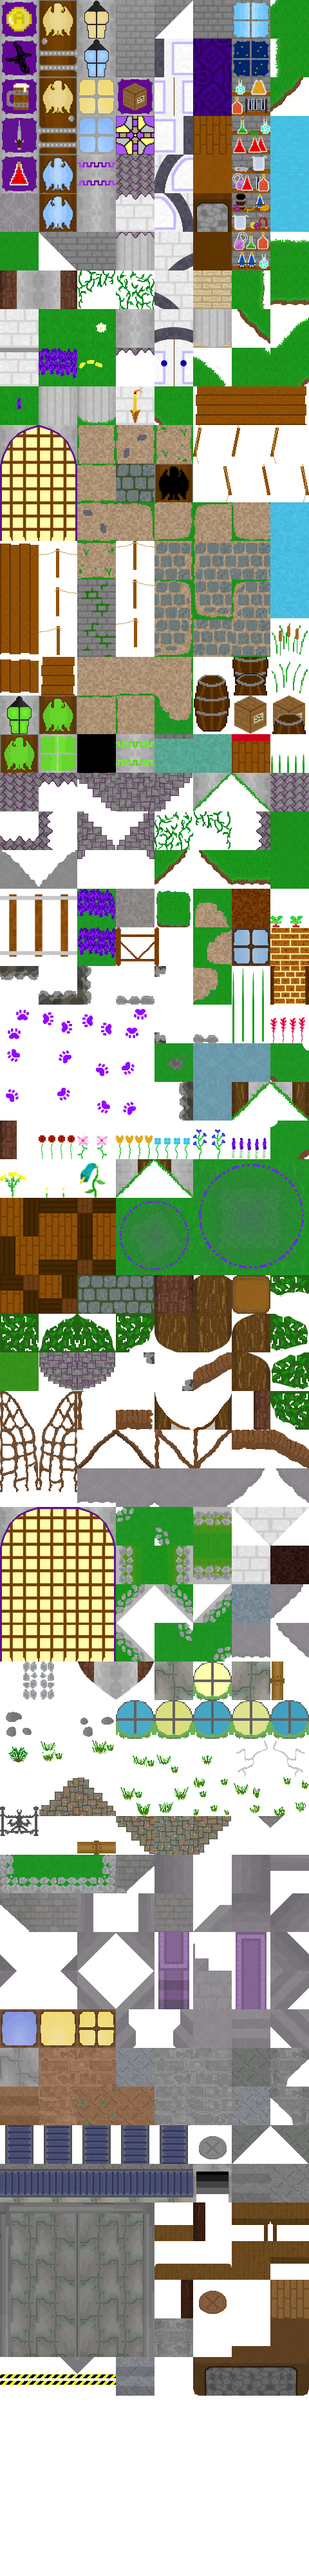
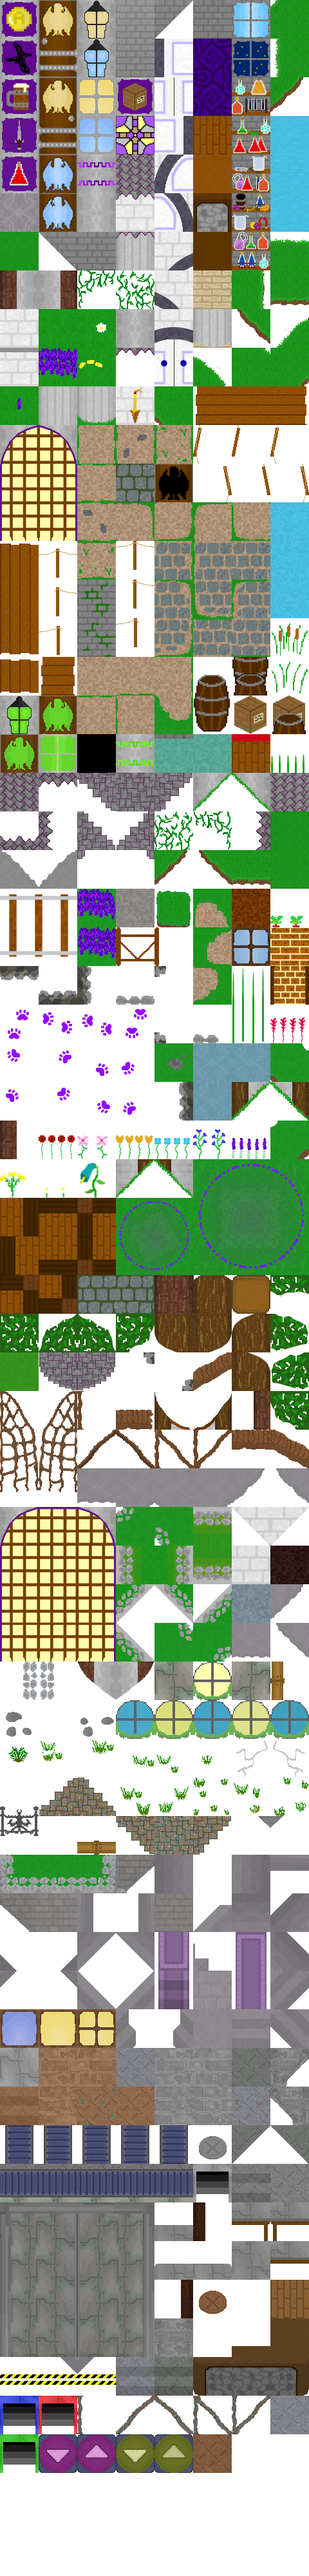
Tinkerer workshop updates!
Made some general changes + added some new objects for the tinkerer workshop.

Changed region(s): [[0.0, 0.8438, 1.0, 0.9688], [0.875, 0.9062, 1.0, 0.9688]]

diff --git a/gamedata/areadata.js b/gamedata/areadata.js
@@ -13958,6 +13958,7 @@ chloroville: {
 			rows: 32,
 			tsize: 60,
 			tilesPerRow: 8,
+			objectTiles: [489, 490, 491],
 			animateTiles: [
 
 				{
@@ -13975,33 +13976,38 @@ chloroville: {
 436,436,436,436,436,436,436,436,436,436,436,436,436,436,436,436,431,431,429,430,429,430,429,430,429,430,429,430,429,430,431,431,436,436,436,436,436,436,436,436,436,436,436,436,436,436,436,436,
 453,453,453,453,453,453,453,453,453,453,453,453,453,453,453,453,453,431,437,438,437,438,437,437,437,437,437,438,437,438,431,453,453,453,453,453,453,453,453,453,453,453,453,453,453,453,453,453,
 431,431,431,431,431,431,485,430,430,430,430,485,431,431,431,431,431,485,425,425,429,430,457,458,459,460,429,425,425,430,485,431,431,431,431,431,485,430,430,430,430,485,431,431,431,431,431,431,
-429,425,425,425,351,351,485,428,428,428,428,485,425,351,351,351,351,485,425,351,351,438,465,466,467,468,437,425,425,425,485,425,425,425,351,351,485,428,428,428,428,485,429,430,429,430,429,430,
-437,438,437,425,351,351,485,492,492,492,492,485,425,425,425,351,351,485,351,351,351,430,473,474,475,476,429,425,351,351,485,425,425,351,351,438,485,492,492,492,492,485,437,438,351,351,425,438,
-429,430,429,425,351,430,485,492,492,492,492,485,429,425,425,425,429,485,351,351,437,438,481,482,483,484,437,438,437,438,485,430,429,430,429,430,485,492,492,492,492,485,425,351,351,425,425,430,
-351,438,437,438,437,438,485,492,492,492,492,485,437,438,437,438,437,485,431,431,431,431,456,456,456,456,431,431,431,431,485,438,437,438,437,438,485,492,492,492,492,485,351,351,425,425,425,438,
-351,430,429,430,429,430,485,492,492,492,492,485,429,430,429,430,429,485,431,431,431,431,456,456,456,456,431,431,431,431,485,430,429,430,429,430,485,492,492,492,492,485,351,351,351,430,429,430,
-351,438,437,438,437,351,485,492,492,492,492,485,437,438,437,351,351,485,431,431,431,485,455,455,455,455,485,431,431,431,485,438,437,351,425,425,485,492,492,492,492,485,351,425,437,438,437,438,
-429,429,429,430,429,351,485,428,428,428,428,485,429,430,429,351,351,485,425,425,429,436,436,436,436,436,436,429,425,425,485,351,351,351,351,351,485,428,428,428,428,485,425,425,429,430,429,430,
-437,441,437,438,437,351,428,428,428,428,428,428,437,438,437,438,437,485,436,436,435,435,436,436,436,435,435,436,436,436,485,351,425,425,351,351,428,428,428,428,428,428,437,438,437,438,441,438,
+429,425,425,425,351,351,485,431,431,431,431,485,425,351,351,351,351,485,425,351,351,438,465,466,467,468,437,425,425,425,485,425,425,425,351,351,485,431,431,431,431,485,429,430,429,430,429,430,
+437,438,437,425,351,351,485,493,493,493,493,485,425,425,425,351,351,485,351,351,351,430,473,474,475,476,429,425,351,351,485,425,425,351,351,438,485,493,493,493,493,485,437,438,351,351,425,438,
+429,430,429,425,351,430,485,493,493,493,493,485,429,425,425,425,429,485,351,351,437,438,481,482,483,484,437,438,437,438,485,430,429,430,429,430,485,493,493,493,493,485,425,351,351,425,425,430,
+351,438,437,438,437,438,485,493,493,493,493,485,437,438,437,438,437,485,431,431,431,431,456,456,456,456,431,431,431,431,485,438,437,438,437,438,485,493,493,493,493,485,351,351,425,425,425,438,
+351,430,429,430,429,430,485,493,493,493,493,485,429,430,429,430,429,485,431,431,431,431,456,456,456,456,431,431,431,431,485,430,429,430,429,430,485,493,493,493,493,485,351,351,351,430,429,430,
+351,438,437,438,437,351,485,493,493,493,493,485,437,438,437,351,351,485,431,431,431,485,455,455,455,455,485,431,431,431,485,438,437,351,425,425,485,493,493,493,493,485,351,425,437,438,437,438,
+429,429,429,430,429,351,485,456,456,456,456,485,429,430,429,351,351,485,425,425,429,436,436,436,436,436,436,429,425,425,485,351,351,351,351,351,485,456,456,456,456,485,425,425,429,430,429,430,
+437,441,437,438,437,351,504,504,504,504,504,504,437,438,437,438,429,485,436,436,435,435,436,436,436,435,435,436,436,436,485,351,425,425,351,351,504,504,504,504,504,504,437,438,437,438,441,438,
 431,428,428,428,428,428,428,428,428,428,428,428,428,428,428,428,428,436,436,436,435,435,435,435,435,435,436,435,435,436,436,428,428,428,428,428,428,428,428,428,428,428,428,428,428,428,428,431,
 431,428,428,428,428,428,428,428,428,428,428,428,428,428,428,428,428,436,436,435,435,436,436,436,436,436,436,436,435,436,436,428,428,428,428,428,428,428,428,428,428,428,428,428,428,428,428,431,
 431,428,428,428,428,428,428,428,428,428,439,428,428,428,428,428,428,436,436,435,435,436,436,436,436,436,436,436,436,436,436,428,428,428,428,428,428,428,428,428,428,439,428,428,428,428,428,431,
 431,428,428,428,428,428,428,428,428,428,428,428,428,428,428,428,428,436,436,436,435,435,436,435,435,436,436,436,435,436,436,428,428,428,428,428,428,428,439,428,428,428,428,428,439,428,428,431,
 431,428,428,439,428,428,428,428,428,428,428,428,428,428,428,428,428,436,436,436,436,436,436,436,435,435,435,435,435,436,436,428,428,428,428,428,428,439,428,428,428,428,428,439,439,428,428,431,
 431,428,428,428,428,428,439,428,439,428,428,428,428,428,428,428,428,436,436,436,436,436,436,436,436,436,436,436,436,436,436,428,428,428,428,439,439,439,428,439,439,439,428,428,428,428,428,431,
-431,492,492,492,492,492,492,492,492,492,492,492,492,492,492,492,441,426,426,426,426,426,426,426,426,426,426,426,426,426,426,441,492,492,492,492,492,492,492,492,492,492,492,492,492,492,492,431,
-431,436,436,436,436,435,436,436,436,435,436,436,436,435,436,436,436,434,434,434,434,434,434,434,434,434,434,434,434,434,434,436,436,436,435,435,436,436,436,436,436,436,436,436,435,436,436,431,
-431,436,436,436,436,436,436,436,436,436,436,436,436,436,436,436,436,456,456,456,456,456,456,456,456,456,456,456,456,456,456,436,436,436,435,436,436,436,436,435,435,436,436,435,435,436,436,431,
-431,436,435,436,436,436,436,436,436,436,435,436,436,436,436,436,436,456,456,456,456,456,456,456,456,456,456,456,456,456,456,436,436,436,436,435,435,436,435,435,435,436,436,436,436,436,436,431,
-431,436,436,436,436,436,436,436,436,436,436,436,436,436,435,436,436,456,456,456,456,456,456,456,456,456,456,456,456,456,456,436,435,436,436,436,436,436,436,436,436,436,436,436,436,436,436,431,
-431,449,449,449,449,449,449,449,449,449,436,436,436,436,436,436,436,456,456,456,456,456,456,456,456,456,456,456,456,456,456,436,436,436,436,436,435,435,449,449,449,449,449,449,449,449,449,431,
-431,485,425,425,430,429,430,429,430,436,436,435,436,436,435,436,436,456,456,456,456,456,456,456,456,456,456,456,456,456,456,436,436,436,435,436,436,436,436,429,425,425,351,429,430,429,485,431,
-455,485,425,425,351,437,438,437,351,436,436,436,436,436,436,436,436,456,456,456,456,456,456,456,456,456,456,456,456,456,456,436,436,436,436,435,436,436,436,437,438,425,425,351,438,437,485,455,
-436,485,430,351,430,429,430,351,351,449,449,449,449,449,449,449,449,456,456,456,456,456,456,456,456,456,456,456,456,456,456,449,449,449,449,449,449,449,449,429,430,351,425,351,430,429,485,436,
+431,492,492,492,492,492,492,492,492,441,492,492,492,492,492,492,441,426,426,426,426,426,426,426,426,426,426,426,426,426,426,441,492,492,492,492,492,492,492,492,492,492,492,492,492,492,492,431,
+431,436,436,436,436,435,436,436,436,510,455,455,455,455,455,455,510,434,434,434,434,434,434,434,434,434,434,434,434,434,434,436,436,436,435,435,436,436,436,436,436,436,436,436,435,436,436,431,
+431,436,436,436,436,436,436,436,436,510,493,493,493,493,493,493,510,456,456,456,456,456,456,456,456,456,456,456,456,456,456,436,436,436,435,436,436,436,436,435,435,436,436,435,435,436,436,431,
+431,436,435,436,436,436,436,436,436,510,431,431,431,431,431,431,510,456,456,456,456,456,456,456,456,456,456,456,456,456,456,436,436,436,436,435,435,436,435,435,435,436,436,436,436,436,436,431,
+431,436,436,436,436,436,436,436,436,510,431,431,431,431,431,431,510,456,456,456,456,456,456,456,456,456,456,456,456,456,456,436,435,436,436,436,436,436,436,436,436,436,436,436,436,436,436,431,
+431,449,449,449,449,449,449,449,449,431,431,471,431,431,471,431,510,456,456,456,456,456,456,456,456,456,456,456,456,456,456,436,436,436,436,436,435,435,449,449,449,449,449,449,449,449,449,431,
+431,485,425,425,430,429,430,429,430,510,431,431,431,431,431,431,510,456,456,456,456,456,456,456,456,456,456,456,456,456,456,436,436,436,435,436,436,436,436,429,425,425,351,429,430,429,485,431,
+493,485,425,425,351,437,438,437,351,510,431,431,431,431,431,431,510,456,456,456,456,456,456,456,456,456,456,456,456,456,456,436,436,436,436,435,436,436,436,437,438,425,425,351,438,437,485,493,
+436,485,430,351,430,429,430,351,351,449,510,510,510,510,510,510,431,456,456,456,456,456,456,456,456,456,456,456,456,456,456,449,449,449,449,449,449,449,449,429,430,351,425,351,430,429,485,436,
 436,436,438,437,438,437,425,351,351,485,425,351,351,429,430,429,430,456,456,456,456,456,456,456,456,456,456,456,456,456,456,429,425,351,351,429,430,429,485,437,438,437,438,437,438,437,436,436,
-436,436,436,436,436,436,436,436,436,485,425,425,351,437,438,437,438,456,456,456,456,456,456,456,456,456,456,456,456,456,456,437,425,425,351,437,438,437,485,436,436,436,436,436,436,436,436,436,
+436,436,436,436,436,436,436,436,436,485,425,425,351,437,438,437,449,449,449,449,449,449,449,449,449,449,449,449,449,449,449,449,425,425,351,437,438,437,485,436,436,436,436,436,436,436,436,436,
 436,436,436,436,436,436,436,436,436,485,351,351,351,429,430,429,430,429,430,351,425,425,430,429,430,429,430,351,425,351,430,429,430,351,351,429,430,429,485,436,436,436,436,436,436,436,436,436,
 436,436,436,436,436,436,436,436,436,436,438,437,438,437,438,437,438,437,351,425,425,425,425,437,438,437,351,425,425,425,351,437,438,437,438,437,438,437,436,436,436,436,436,436,436,436,436,436
+
+
+
+
+
 ],
 
 	[0,0,0,0,0,0,0,0,0,0,0,0,0,0,0,0,442,446,0,0,0,0,0,0,0,0,0,0,0,0,446,445,0,0,0,0,0,0,0,0,0,0,0,0,0,0,0,0,
@@ -14017,25 +14023,32 @@ chloroville: {
 0,352,0,352,0,0,0,0,0,0,0,0,352,0,0,379,352,0,0,0,367,447,0,0,0,0,448,367,367,0,0,0,352,0,0,352,0,0,0,0,0,0,0,379,379,379,379,379,
 0,352,0,352,0,0,489,489,489,489,489,489,352,0,0,352,0,0,0,0,0,432,0,0,0,0,440,0,0,0,0,0,352,0,0,352,489,489,489,489,489,489,0,352,0,0,0,0,
 0,454,0,352,0,0,432,0,0,0,0,440,352,0,0,352,0,0,0,0,0,0,0,0,367,367,0,0,0,0,0,0,352,0,0,352,432,0,0,0,0,440,0,352,0,0,454,0,
-0,441,0,0,0,446,0,0,0,0,0,0,0,478,0,0,410,432,0,478,367,0,367,0,0,367,0,367,446,0,440,409,0,0,478,0,0,368,0,0,0,0,446,0,0,0,441,0,
+0,441,0,0,0,446,0,0,0,0,0,0,0,478,0,0,0,432,0,478,367,0,367,0,0,367,0,367,446,0,440,409,0,0,478,0,0,368,0,0,0,0,446,0,0,0,441,0,
 0,441,0,367,0,0,0,0,367,0,0,0,0,0,0,0,0,395,367,0,0,0,0,0,0,0,367,0,367,0,396,0,0,0,0,0,0,0,0,0,0,0,367,0,0,0,441,0,
 0,441,0,0,0,0,0,0,0,0,0,0,0,0,0,0,0,395,0,0,0,0,0,0,0,0,0,0,0,0,396,0,0,367,368,0,0,0,0,0,0,0,0,0,0,0,441,0,
-0,441,0,0,0,368,0,0,0,0,0,0,0,0,0,0,0,395,0,0,367,0,0,0,0,0,0,367,367,0,396,0,0,0,0,0,0,367,0,0,0,368,0,0,0,0,441,0,
+0,441,0,0,0,368,0,0,0,0,0,0,0,0,0,0,0,395,0,0,367,0,0,0,0,0,0,367,367,0,396,0,0,0,0,0,0,367,0,0,0,0,0,0,0,0,441,0,
 0,441,0,0,0,0,0,0,0,0,0,0,0,368,367,0,0,395,0,446,0,0,0,367,0,0,0,0,478,0,396,0,0,0,0,0,0,0,0,0,0,0,0,0,0,0,441,0,
 0,441,478,0,0,0,0,0,0,0,0,0,0,0,0,446,0,491,489,489,489,489,489,489,489,489,489,489,489,489,490,0,446,0,0,0,0,0,0,0,0,0,0,0,0,478,441,0,
-0,441,0,368,0,0,0,0,0,0,0,0,0,0,0,0,454,0,0,0,352,0,352,0,379,379,379,352,0,352,0,454,0,0,0,0,0,0,368,0,0,0,0,0,0,0,441,0,
-0,441,446,0,0,367,0,0,0,0,0,0,0,0,0,478,441,379,379,379,352,0,352,0,352,0,0,0,0,352,0,441,478,0,0,0,0,0,0,0,0,0,367,0,0,446,441,0,
-0,441,0,0,0,0,0,368,0,0,0,0,0,0,0,0,441,395,0,0,0,0,0,0,0,0,0,0,0,0,396,441,0,0,0,0,0,0,0,0,0,0,0,0,368,0,441,0,
-0,441,367,0,0,0,0,0,367,0,0,0,367,0,0,0,441,395,478,0,0,0,0,0,0,0,0,0,0,446,396,441,0,0,0,368,0,0,0,0,0,0,0,0,0,0,441,0,
-0,441,0,0,478,0,0,0,0,0,0,0,0,0,0,446,441,395,0,0,0,0,0,0,0,0,0,0,0,0,396,441,446,0,367,0,0,0,0,0,0,0,0,478,0,0,441,0,
-0,441,449,449,449,449,449,449,449,441,0,0,0,0,0,0,441,395,0,0,0,0,0,0,0,0,0,0,0,0,396,441,0,0,0,0,0,0,441,449,449,449,449,449,449,449,441,0,
-0,379,352,379,379,379,379,352,379,441,0,0,0,0,367,0,441,395,0,0,0,0,0,0,0,0,0,0,0,0,396,441,0,0,0,0,0,0,441,352,0,0,379,352,0,379,352,0,
-0,379,379,352,0,0,0,0,352,441,0,0,478,0,0,0,441,395,0,0,0,0,0,0,0,0,0,0,0,0,396,441,0,0,0,478,0,0,441,352,379,379,352,352,0,352,0,0,
-0,0,0,0,0,0,0,0,0,441,449,449,449,449,449,449,441,395,0,0,0,0,0,0,0,0,0,0,0,0,396,441,449,449,449,449,449,449,441,0,0,0,0,0,0,0,0,0,
-0,440,0,0,0,0,0,0,0,0,0,0,0,379,379,379,379,409,446,0,0,0,0,0,0,0,0,0,0,478,410,352,379,379,379,352,379,352,0,0,0,367,0,0,0,0,432,0,
-0,367,0,0,0,0,0,367,0,0,379,379,379,352,0,0,489,489,489,489,489,489,489,489,489,489,489,489,489,489,489,489,352,0,0,352,352,352,0,0,0,0,0,0,0,0,0,0,
-0,0,0,0,0,0,0,0,0,0,0,0,0,0,0,0,0,0,0,0,0,0,0,0,0,0,0,0,0,0,0,0,0,0,0,0,0,0,0,0,0,0,0,0,0,0,0,0,
-0,0,0,0,0,0,0,0,0,440,367,0,0,0,0,0,0,0,0,0,0,0,0,0,0,0,0,0,0,0,0,0,0,0,0,0,367,0,432,0,0,0,0,0,0,0,367,0
+0,441,0,368,0,0,0,0,0,497,0,0,0,0,0,0,498,0,0,0,352,0,352,0,379,379,379,352,0,352,0,505,0,0,0,0,0,0,368,0,0,0,0,0,0,0,441,0,
+0,441,446,0,469,461,470,0,0,441,0,0,0,0,0,0,442,379,379,379,352,0,352,0,352,0,0,0,0,352,0,441,446,0,0,0,0,0,0,0,0,469,461,470,0,446,441,0,
+0,441,0,0,471,471,471,0,0,441,0,0,0,0,0,0,442,395,0,0,0,0,0,0,0,0,0,0,0,0,396,441,0,0,0,0,0,0,0,0,0,471,471,471,368,0,441,0,
+0,441,367,0,464,472,463,0,367,441,0,0,367,0,0,446,442,395,478,0,0,0,0,0,0,0,0,0,0,446,396,441,0,469,461,461,470,0,0,0,0,464,472,463,0,0,441,0,
+0,441,0,0,478,0,0,0,0,441,0,469,0,0,470,0,442,395,0,0,0,0,0,0,0,0,0,0,0,0,396,441,0,471,471,471,471,0,0,0,0,0,0,478,0,0,441,0,
+0,441,449,449,449,449,449,449,449,506,0,469,461,461,470,0,442,395,0,0,0,0,0,0,0,0,0,0,0,0,396,441,0,464,472,472,463,0,441,449,449,449,449,449,449,449,441,0,
+0,379,352,379,379,379,379,352,379,441,0,464,472,472,463,0,442,395,0,0,0,0,0,0,0,0,0,0,0,0,396,441,0,0,0,0,0,0,441,352,0,0,379,352,0,379,352,0,
+0,379,352,352,0,0,0,352,352,441,446,0,0,0,0,0,441,395,0,0,0,0,0,0,0,0,0,0,0,0,396,441,0,0,0,478,0,0,441,352,379,379,352,352,0,352,0,0,
+0,0,352,352,0,0,0,352,352,441,449,449,449,449,449,449,509,395,0,0,0,0,0,0,0,0,0,0,0,0,396,441,449,449,449,449,449,449,441,352,352,0,0,352,0,352,0,0,
+0,440,352,352,0,0,0,352,352,0,0,0,0,379,379,379,441,0,0,0,0,0,0,0,0,0,0,0,0,0,0,441,379,379,379,352,379,352,0,352,352,367,0,352,0,352,432,0,
+0,367,0,0,0,0,0,367,0,0,379,379,379,352,352,0,441,0,0,0,0,0,0,0,0,0,0,0,0,0,0,441,0,0,0,352,352,352,0,0,0,0,0,0,0,0,0,0,
+0,0,0,0,0,0,0,0,0,0,352,0,0,352,352,0,0,0,0,0,0,0,0,0,0,0,0,0,0,0,0,0,0,0,0,352,352,352,0,0,0,0,0,0,0,0,0,0,
+0,0,0,0,0,0,0,0,0,440,352,0,0,352,352,0,0,0,0,0,0,0,0,0,0,0,0,0,0,0,0,0,0,0,0,352,352,352,432,0,0,0,0,0,0,0,367,0
+
+
+
+
+
+
+
 
 
 ]
@@ -14055,6 +14068,13 @@ chloroville: {
 			toxicWasteGreen: {normal: "assets/objects/toxicWasteGreen.png"},
 			toxicWastePurple: {normal: "assets/objects/toxicWastePurple.png"},
 			toxicWasteRed: {normal: "assets/objects/toxicWasteRed.png"},
+			blueprints: {normal: "assets/objects/blueprints.png"},
+			goggles: {normal: "assets/items/helm/45.png"},
+			armour: {normal: "assets/items/set/13.png"},
+			floorWires: {normal: "assets/objects/floorWires.png"},
+			floorWires2: {normal: "assets/objects/floorWires2.png"},
+			leverPurple: {normal: "assets/objects/leverPurple.png"},
+			leverYellow: {normal: "assets/objects/leverYellow.png"},
 
 
 	},
@@ -14115,8 +14135,8 @@ chloroville: {
 		},
 
 		{
-			x: [640.7, 151.5, 2720.4, 2236.4, 1001.9, 1887.5,  2771.2, 116.5],
-			y: [1731.3, 1552.7, 1552.7, 1731.6, 385.7, 385.7,  385.7, 385.7],
+			x: [151.5, 2720.4, 1001.9, 1887.5,  2771.2, 116.5],
+			y: [1552.7, 1552.7, 385.7, 385.7,  385.7, 385.7],
 			image: "tinkererChimney",
 			name: "tinkererChimney",
 			crop: {
@@ -14151,12 +14171,71 @@ chloroville: {
 			},
 		},
 
+		{
+			x: [756.2],
+			y: [1679.6],
+			image: "leverPurple",
+			name: "leverPurple",
+			crop: {
+				x: 0,
+				y: 0,
+				width: 28,
+				height: 100
+			},
+			animation: {
+				type: "spritesheet",
+				frameTime: 2000,
+				imagesPerRow: 2,
+				totalImages: 2,
+			},
+		},
 
 		{
-			x: [2760.1, 2282.4, 842.1, 771.3, 301.7, 2581.9, 2112, 484.2, 29.1, 2043.4, 1313, 1570.3, 1572.1, 1307.8, 1307.8, 1561.5, 1258.7, 1620.9, 1259.2, 1623.1],
-			y: [525.9, 525.9, 525.9, 1903.7, 1722.9, 1722.9, 1912.8, 526.8, 526.8, 526.8, 290.9, 290.9, 329.4, 329.4, 398.7, 398.7, 1374.1, 1374.1, 2034.8, 2034.8],
+			x: [816.2],
+			y: [1679.6],
+			image: "leverYellow",
+			name: "leverYellow",
+			crop: {
+				x: 0,
+				y: 0,
+				width: 28,
+				height: 100
+			},
+			animation: {
+				type: "spritesheet",
+				frameTime: 2000,
+				imagesPerRow: 2,
+				totalImages: 2,
+			},
+		},
+
+
+
+		{
+			x: [2760.1, 2282.4, 842.1,  301.7, 2581.9, 484.2, 29.1, 2043.4, 1313, 1570.3, 1572.1, 1307.8, 1307.8, 1561.5, 1258.7, 1620.9, 1259.2, 1623.1],
+			y: [525.9, 525.9, 525.9,  1722.9, 1722.9, 526.8, 526.8, 526.8, 290.9, 290.9, 329.4, 329.4, 398.7, 398.7, 1374.1, 1374.1, 2034.8, 2034.8],
 			image: "tinkererWires",
 			name: "tinkererWires",
+		},
+
+		{
+			x: [2527.5],
+			y: [1465.2],
+			image: "blueprints",
+			name: "blueprints",
+		},
+		{
+			x: [346.1],
+			y: [1447.4],
+			image: "goggles",
+			name: "goggles",
+		},
+
+		{
+			x: [2607.7],
+			y: [1461.3],
+			image: "armour",
+			name: "armour",
 		},
 
 		{
@@ -14181,8 +14260,25 @@ chloroville: {
 		},
 
 		{
-			x:  [998.8, 151.8, 1893, 2722.6, 903.7, 1976.4, 1888.4, 988.9,  1036.3, 1834.3, 2105.8, 2578.3, 292.8, 770.5],
-			y: [ 959.3, 959.3, 959.3, 959.3, 1738.9, 1738.9, 1293.1, 1293.1,   239.7, 239.7, 428.7, 428.7, 428.7, 428.7],
+			x: [180.6, 1110.4],
+			y: [1090.7, 1564.7],
+			image: "floorWires",
+			name: "floorWires",
+		},
+
+		{
+			x: [1700.1, 2633.6],
+			y: [ 1853.5, 1264.3],
+			z: -1,
+			image: "floorWires2",
+			name: "floorWires2",
+		},
+
+
+
+		{
+			x:  [998.8, 151.8, 1893, 2722.6, 923.7, 1956.4, 1888.4, 988.9,  1036.3, 1834.3, 2105.8, 2578.3, 292.8, 770.5],
+			y: [ 959.3, 959.3, 959.3, 959.3, 1758.9, 1758.9, 1293.1, 1293.1,   239.7, 239.7, 428.7, 428.7, 428.7, 428.7],
 			image: "siren",
 			name: "siren",
 			crop: {
